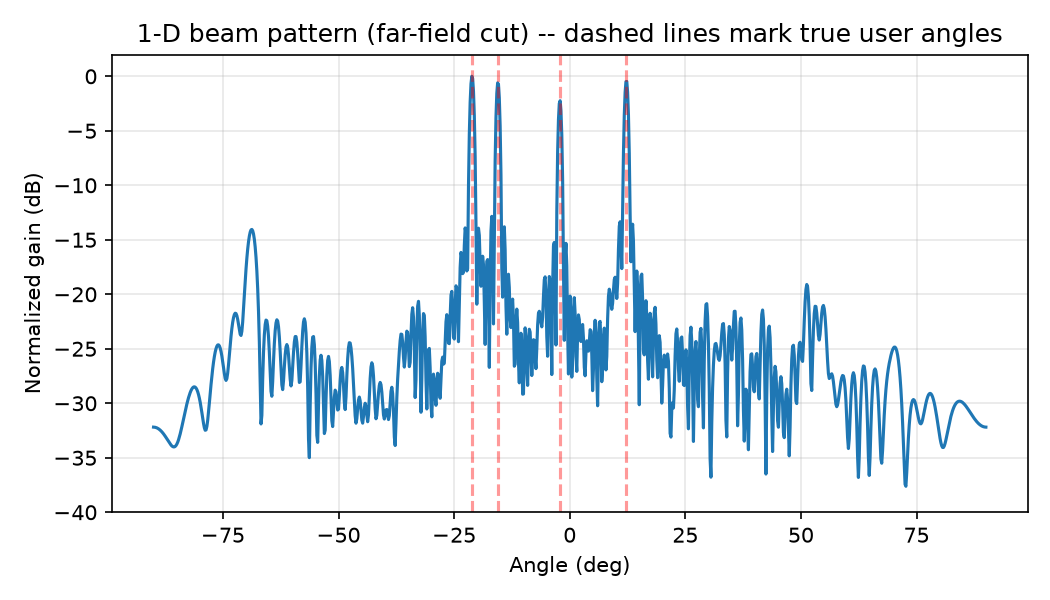
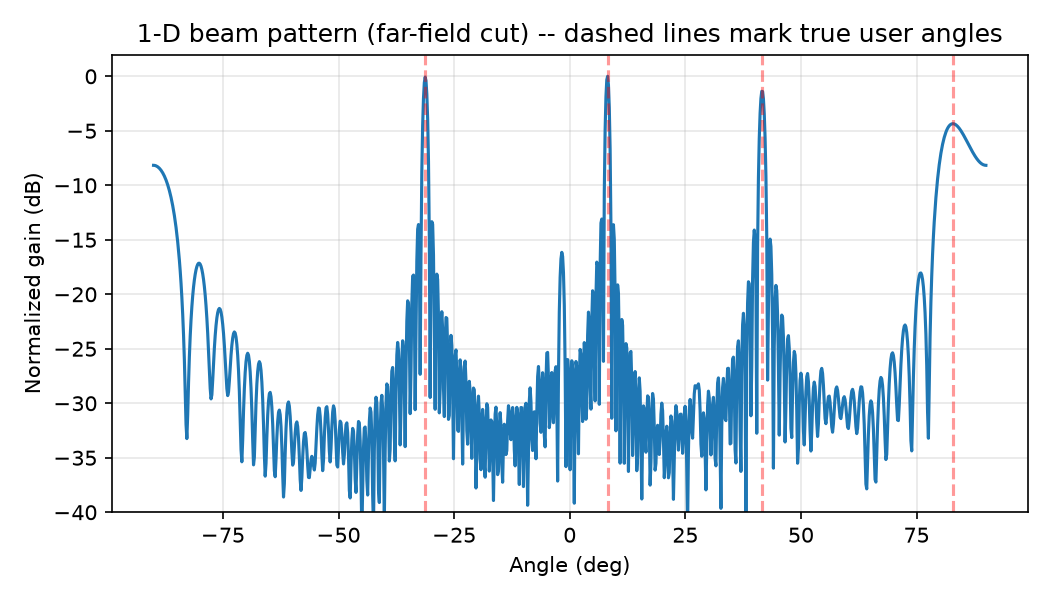
changed beam pattern and example beampattern txt

Changed region(s): [[0.1524, 0.09, 0.9448, 0.87]]

diff --git a/target_model.py b/target_model.py
@@ -1,7 +1,6 @@
 
 #Near-field / far-field channel model
 import numpy as np
-import torch
 
 def array_response_near_field(theta: float, r: float, M: int, d: float, wavelength: float) -> np.ndarray:
     m_idx = np.arange(M)
